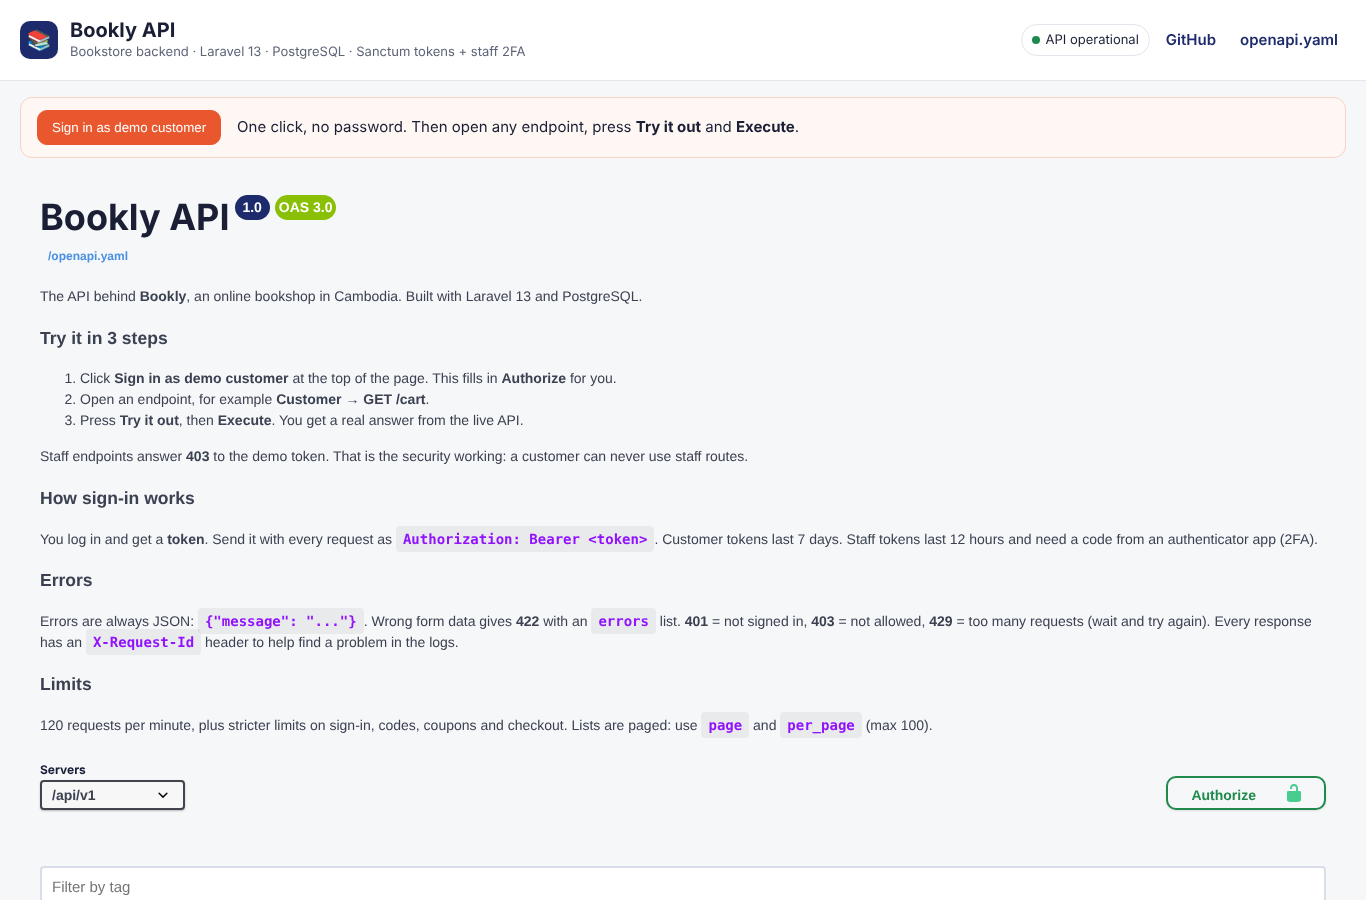
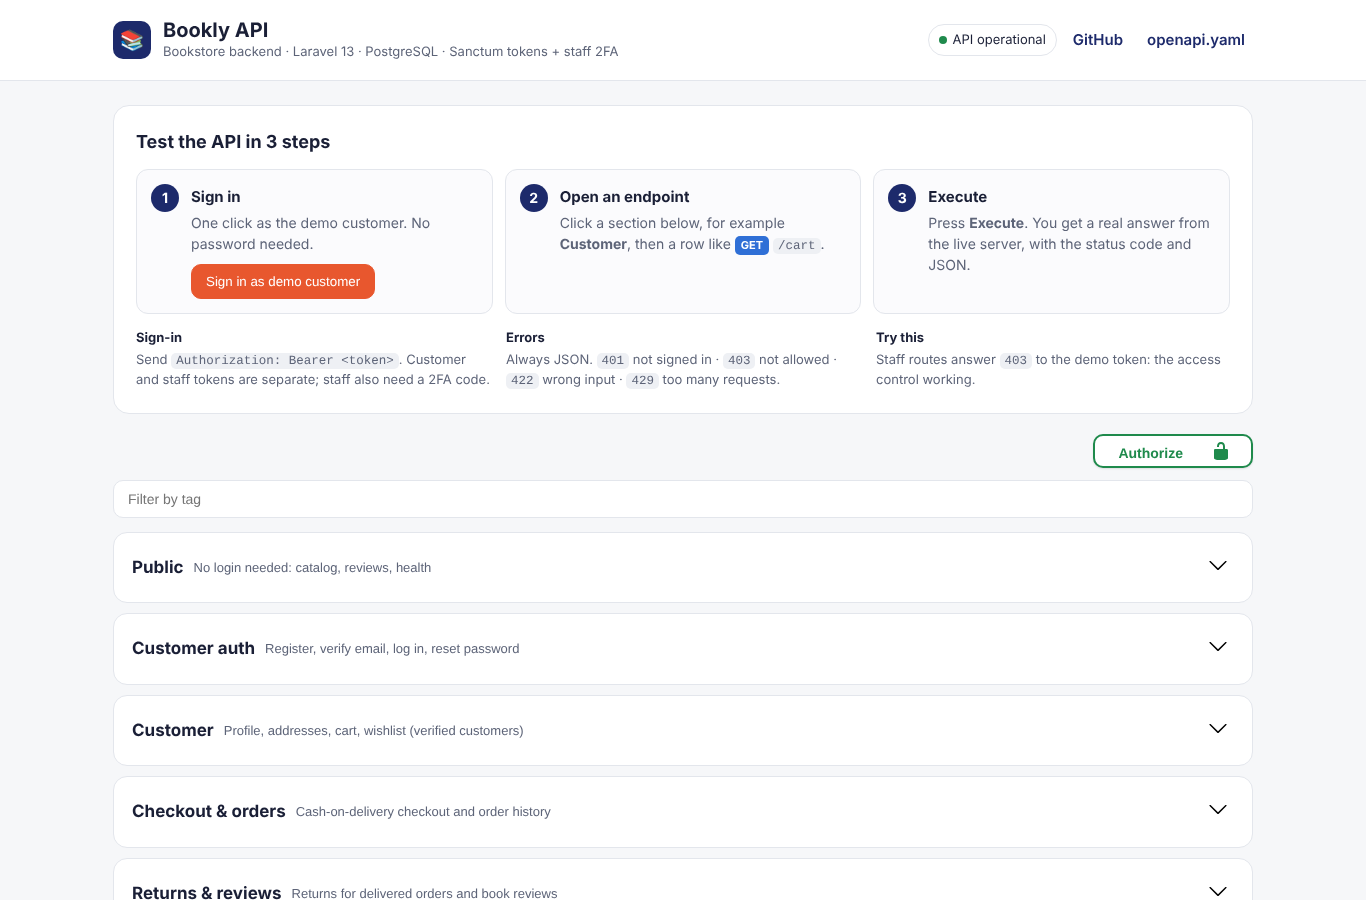
Give the docs page a step-by-step guide and cleaner Swagger sections

diff --git a/resources/views/docs.blade.php b/resources/views/docs.blade.php
@@ -19,7 +19,7 @@
 
         /* Header: one compact bar with everything a visitor needs to start testing. */
         .bar { background: var(--card); border-bottom: 1px solid var(--line); }
-        .bar-in { max-width: 1460px; margin: 0 auto; padding: 18px 20px; display: flex; flex-wrap: wrap; gap: 14px 24px; align-items: center; justify-content: space-between; }
+        .bar-in { max-width: 1180px; margin: 0 auto; padding: 18px 20px; display: flex; flex-wrap: wrap; gap: 14px 24px; align-items: center; justify-content: space-between; }
         .brand { display: flex; align-items: center; gap: 12px; }
         .logo { width: 38px; height: 38px; border-radius: 10px; background: var(--brand); color: #fff; display: grid; place-items: center; font-size: 20px; }
         .brand h1 { margin: 0; font-size: 20px; line-height: 1.2; }
@@ -34,37 +34,59 @@
         .btn.ghost { background: var(--card); color: var(--ink); border-color: var(--line); }
         .btn[disabled] { opacity: .6; cursor: progress; }
 
-        /* Demo strip: one sentence telling the visitor what to do next. */
-        .demo { max-width: 1460px; margin: 16px auto 0; padding: 0 20px; }
-        .demo-in { background: #fff7f3; border: 1px solid #f6d3c4; border-radius: 12px; padding: 12px 16px; display: flex; flex-wrap: wrap; gap: 10px 16px; align-items: center; }
-        .demo-in .msg { flex: 1 1 320px; }
+        /* Getting-started guide. */
+        .wrap { max-width: 1180px; margin: 0 auto; padding: 0 20px; }
+        .start { margin: 24px 0 8px; background: var(--card); border: 1px solid var(--line); border-radius: 16px; padding: 22px; }
+        .start h2 { margin: 0 0 14px; font-size: 18px; }
+        .steps { list-style: none; margin: 0; padding: 0; display: grid; grid-template-columns: repeat(auto-fit, minmax(250px, 1fr)); gap: 12px; }
+        .step { display: flex; gap: 12px; padding: 14px; border: 1px solid var(--line); border-radius: 12px; background: #fbfbfd; }
+        .step h3 { margin: 2px 0 4px; font-size: 15px; }
+        .step p { margin: 0 0 10px; color: var(--muted); font-size: 14px; }
+        .num { flex: none; width: 28px; height: 28px; border-radius: 50%; background: var(--brand); color: #fff; display: grid; place-items: center; font-weight: 700; font-size: 14px; }
+        .row { display: flex; flex-wrap: wrap; gap: 8px; }
+        .tag { display: inline-block; padding: 1px 6px; border-radius: 5px; color: #fff; font-size: 11px; font-weight: 700; }
+        .tag.get { background: #2f6fd6; }
+        .facts { margin-top: 14px; display: grid; grid-template-columns: repeat(auto-fit, minmax(250px, 1fr)); gap: 10px 16px; font-size: 13px; color: var(--muted); }
+        .facts strong { display: block; color: var(--ink); font-size: 13px; margin-bottom: 2px; }
         .ok-text { color: var(--ok); font-weight: 600; }
         .err-text { color: var(--bad); }
-        .demo-in code, footer code { font: 13px/1.4 ui-monospace, SFMono-Regular, Menlo, Consolas, monospace; background: #eef0f4; padding: 1px 5px; border-radius: 5px; }
+        .start code, footer code { font: 12.5px/1.4 ui-monospace, SFMono-Regular, Menlo, Consolas, monospace; background: #eef0f4; padding: 1px 5px; border-radius: 5px; }
+        footer a { color: var(--brand); }
 
-        /* Swagger UI, lightly restyled: same layout as before, cleaner surfaces. */
-        #swagger-ui { max-width: 1460px; margin: 0 auto; padding: 8px 20px 48px; }
-        .swagger-ui, .swagger-ui .info .title, .swagger-ui .opblock-tag, .swagger-ui .opblock .opblock-summary-description { font-family: inherit; color: var(--ink); }
-        .swagger-ui .topbar { display: none; }
-        .swagger-ui .info { margin: 24px 0 8px; }
-        .swagger-ui .info .title small { background: var(--brand); }
-        .swagger-ui .info .markdown p, .swagger-ui .info .markdown li { font-size: 14px; color: var(--muted); }
-        .swagger-ui .scheme-container { background: transparent; box-shadow: none; padding: 8px 0 16px; }
-        .swagger-ui .opblock-tag { border-bottom: 1px solid var(--line); font-size: 20px; }
-        .swagger-ui .opblock { border-radius: 10px; box-shadow: none; margin: 0 0 8px; background: var(--card) !important; border-width: 1px; }
-        .swagger-ui .opblock .opblock-summary { padding: 8px 10px; }
-        .swagger-ui .opblock .opblock-summary-method { border-radius: 7px; min-width: 70px; font-weight: 700; }
-        .swagger-ui .opblock.opblock-get { border-color: #c9dcf5; } .swagger-ui .opblock.opblock-get .opblock-summary-method { background: #2f6fd6; }
-        .swagger-ui .opblock.opblock-post { border-color: #c4e8d4; } .swagger-ui .opblock.opblock-post .opblock-summary-method { background: #1f9d5b; }
-        .swagger-ui .opblock.opblock-put { border-color: #f3dfbd; } .swagger-ui .opblock.opblock-put .opblock-summary-method { background: #d4880f; }
-        .swagger-ui .opblock.opblock-patch { border-color: #d7e9e4; } .swagger-ui .opblock.opblock-patch .opblock-summary-method { background: #2a9d8f; }
-        .swagger-ui .opblock.opblock-delete { border-color: #f3c9c9; } .swagger-ui .opblock.opblock-delete .opblock-summary-method { background: #d64545; }
-        .swagger-ui .btn.authorize { border-radius: 10px; color: var(--ok); border-color: var(--ok); }
+        /* Swagger UI, restyled: same rows as before, cleaner surfaces. */
+        #swagger-ui { max-width: 1180px; margin: 0 auto; padding: 0 20px 40px; }
+        .swagger-ui, .swagger-ui .opblock-tag, .swagger-ui .opblock .opblock-summary-description { font-family: inherit; color: var(--ink); }
+        .swagger-ui .topbar, .swagger-ui .information-container { display: none; }
+        .swagger-ui .scheme-container { background: transparent; box-shadow: none; padding: 12px 0 4px; margin: 0; }
+        .swagger-ui .scheme-container .schemes-server-container, .swagger-ui .servers-title, .swagger-ui .servers { display: none; }
+        .swagger-ui .wrapper { padding: 0; max-width: none; }
+        .swagger-ui .filter-container .filter, .swagger-ui .filter-container .filter > div { width: 100%; max-width: none; flex: 1 1 100%; }
+        .swagger-ui .filter .operation-filter-input { width: 100%; max-width: none; }
+        .swagger-ui .scheme-container .schemes { justify-content: flex-end; }
+        .swagger-ui .filter-container { margin: 0; }
+        .swagger-ui .filter-container .filter { margin: 0; padding: 0; }
+        .swagger-ui .filter .operation-filter-input { border: 1px solid var(--line); border-radius: 10px; padding: 10px 14px; margin: 8px 0 14px; font-size: 14px; background: var(--card); }
+        .swagger-ui .opblock-tag-section { background: var(--card); border: 1px solid var(--line); border-radius: 14px; margin: 0 0 10px; padding: 0 14px; }
+        .swagger-ui .opblock-tag { border-bottom: 0; padding: 12px 4px; margin: 0; font-size: 17px; font-weight: 700; }
+        .swagger-ui .opblock-tag small { font-size: 13px; font-weight: 400; color: var(--muted); padding-left: 10px; }
+        .swagger-ui .opblock-tag-section.is-open { padding-bottom: 12px; }
+        .swagger-ui .opblock { border-radius: 10px; box-shadow: none; margin: 0 0 6px; background: var(--card) !important; border-width: 1px; }
+        .swagger-ui .opblock .opblock-summary { padding: 6px 8px; }
+        .swagger-ui .opblock .opblock-summary-method { border-radius: 7px; min-width: 64px; font-size: 12px; padding: 6px 0; font-weight: 700; }
+        .swagger-ui .opblock .opblock-summary-path { font-size: 14px; }
+        .swagger-ui .opblock .opblock-summary-description { color: var(--muted); font-size: 13px; }
+        .swagger-ui .opblock.opblock-get { border-color: #d3e2f7; } .swagger-ui .opblock.opblock-get .opblock-summary-method { background: #2f6fd6; }
+        .swagger-ui .opblock.opblock-post { border-color: #cdeedb; } .swagger-ui .opblock.opblock-post .opblock-summary-method { background: #1f9d5b; }
+        .swagger-ui .opblock.opblock-put { border-color: #f5e4c6; } .swagger-ui .opblock.opblock-put .opblock-summary-method { background: #d4880f; }
+        .swagger-ui .opblock.opblock-patch { border-color: #d7ece6; } .swagger-ui .opblock.opblock-patch .opblock-summary-method { background: #2a9d8f; }
+        .swagger-ui .opblock.opblock-delete { border-color: #f5d0d0; } .swagger-ui .opblock.opblock-delete .opblock-summary-method { background: #d64545; }
+        .swagger-ui .btn.authorize { border-radius: 10px; color: var(--ok); border-color: var(--ok); background: var(--card); }
+        .swagger-ui .btn.authorize svg { fill: var(--ok); }
         .swagger-ui .btn.execute { background: var(--brand); border-color: var(--brand); border-radius: 8px; }
         .swagger-ui .btn { border-radius: 8px; }
-        .swagger-ui section.models { border-radius: 10px; border-color: var(--line); background: var(--card); }
-        footer { max-width: 1460px; margin: 0 auto; padding: 0 20px 32px; color: var(--muted); font-size: 13px; }
-        @media (max-width: 640px) { .brand p { display: none; } .swagger-ui .opblock .opblock-summary-path { font-size: 13px; } }
+        .swagger-ui .opblock-body pre.microlight { border-radius: 10px; }
+        footer { max-width: 1180px; margin: 0 auto; padding: 0 20px 32px; color: var(--muted); font-size: 13px; }
+        @media (max-width: 640px) { .brand p { display: none; } .swagger-ui .opblock-tag { flex-wrap: wrap; } .swagger-ui .opblock-tag small { flex: 1 0 100%; padding: 4px 0 0; order: 3; } .swagger-ui .opblock-tag > a { flex: 1; } .swagger-ui .opblock .opblock-summary-path { font-size: 12.5px; } .swagger-ui .opblock .opblock-summary-description { display: none; } .start { padding: 16px; } }
     </style>
 </head>
 <body>
@@ -88,17 +110,47 @@
     </div>
 </header>
 
-<section class="demo" aria-label="Try the API">
-    <div class="demo-in">
-        <button class="btn" id="demo-login" type="button">Sign in as demo customer</button>
-        <span class="msg" id="demo-state" aria-live="polite">One click, no password. Then open any endpoint, press <strong>Try it out</strong> and <strong>Execute</strong>.</span>
-        <button class="btn ghost" id="demo-logout" type="button" hidden>Sign out</button>
-    </div>
-</section>
+<main class="wrap">
+    <section class="start" aria-labelledby="start-title">
+        <h2 id="start-title">Test the API in 3 steps</h2>
+        <ol class="steps">
+            <li class="step">
+                <span class="num">1</span>
+                <div>
+                    <h3>Sign in</h3>
+                    <p id="demo-state" aria-live="polite">One click as the demo customer. No password needed.</p>
+                    <div class="row">
+                        <button class="btn" id="demo-login" type="button">Sign in as demo customer</button>
+                        <button class="btn ghost" id="demo-logout" type="button" hidden>Sign out</button>
+                    </div>
+                </div>
+            </li>
+            <li class="step">
+                <span class="num">2</span>
+                <div>
+                    <h3>Open an endpoint</h3>
+                    <p>Click a section below, for example <strong>Customer</strong>, then a row like <span class="tag get">GET</span> <code>/cart</code>.</p>
+                </div>
+            </li>
+            <li class="step">
+                <span class="num">3</span>
+                <div>
+                    <h3>Execute</h3>
+                    <p>Press <strong>Execute</strong>. You get a real answer from the live server, with the status code and JSON.</p>
+                </div>
+            </li>
+        </ol>
+        <div class="facts">
+            <div><strong>Sign-in</strong> Send <code>Authorization: Bearer &lt;token&gt;</code>. Customer and staff tokens are separate; staff also need a 2FA code.</div>
+            <div><strong>Errors</strong> Always JSON. <code>401</code> not signed in · <code>403</code> not allowed · <code>422</code> wrong input · <code>429</code> too many requests.</div>
+            <div><strong>Try this</strong> Staff routes answer <code>403</code> to the demo token: the access control working.</div>
+        </div>
+    </section>
+</main>
 
 <div id="swagger-ui"></div>
 
-<footer>The demo account is shared and tidied every hour. Staff routes answer <code>403</code> to a customer token: that is the access control working.</footer>
+<footer>The demo account is shared, protected and tidied every hour. Built by <a href="https://github.com/danishsary8">@danishsary8</a>.</footer>
 
 <script src="https://cdn.jsdelivr.net/npm/swagger-ui-dist@5.17.14/swagger-ui-bundle.js" integrity="sha384-wmyclcVGX/WhUkdkATwhaK1X1JtiNrr2EoYJ+diV3vj4v6OC5yCeSu+yW13SYJep" crossorigin="anonymous"></script>
 <script>
@@ -116,7 +168,7 @@
         ui = SwaggerUIBundle({
             url: '/openapi.yaml',
             dom_id: '#swagger-ui',
-            docExpansion: 'list',
+            docExpansion: 'none',
             defaultModelsExpandDepth: -1,
             tryItOutEnabled: true,
             filter: true,
@@ -138,12 +190,12 @@
     const logoutBtn = document.getElementById('demo-logout');
     const state = document.getElementById('demo-state');
     const showSignedIn = () => {
-        state.innerHTML = '<span class="ok-text">Signed in as demo@bookly.test ✓</span> Open <strong>Customer → GET /cart</strong>, press <strong>Try it out</strong>, then <strong>Execute</strong>.';
+        state.innerHTML = '<span class="ok-text">Signed in as demo@bookly.test ✓</span> Every request below now uses this account.';
         loginBtn.hidden = true; logoutBtn.hidden = false;
     };
     const showSignedOut = (error) => {
         if (error) { state.innerHTML = '<span class="err-text"></span>'; state.firstChild.textContent = error; }
-        else { state.innerHTML = 'One click, no password. Then open any endpoint, press <strong>Try it out</strong> and <strong>Execute</strong>.'; }
+        else { state.textContent = 'One click as the demo customer. No password needed.'; }
         loginBtn.hidden = false; logoutBtn.hidden = true; loginBtn.disabled = false; loginBtn.textContent = 'Sign in as demo customer';
     };
 

diff --git a/docs/WORKLOG.md b/docs/WORKLOG.md
@@ -385,3 +385,4 @@ php artisan serve   # GET http://localhost:8000/api/v1/ping
   - `/docs` back to Swagger UI 5.17.14 (same SRI hashes as before), restyled: compact header bar (status, links), one demo strip; the button fills Swagger's Authorize via `authActions.authorize`. Light only. The demo password is no longer shown on the page.
   - Spec intro rewritten in plain words ("Try it in 3 steps"); README rewritten in plain English.
   - Verified: 599 tests + pint; Playwright: demo token 200, Authorize shows Authorized, GET /cart Execute 200 with token, GET /staff/books 403, Sign out hidden before sign-in, no overflow at 390 px, no console errors; Mermaid renders; README links resolve.
+  - Follow-up (owner: "old format, but cleaner, with clear guidance"): Swagger rows kept; Swagger's text intro replaced by a "Test the API in 3 steps" panel (numbered cards, sign-in button in step 1) and three short facts (sign-in, errors, try this); sections start collapsed as cards; one-option server picker hidden; shorter staff tag descriptions, Newsletter tag described; phone layout stacks tag descriptions. Verified again in the browser (sign in → Customer → GET /cart Execute 200, staff 403; no overflow at 390 px).
